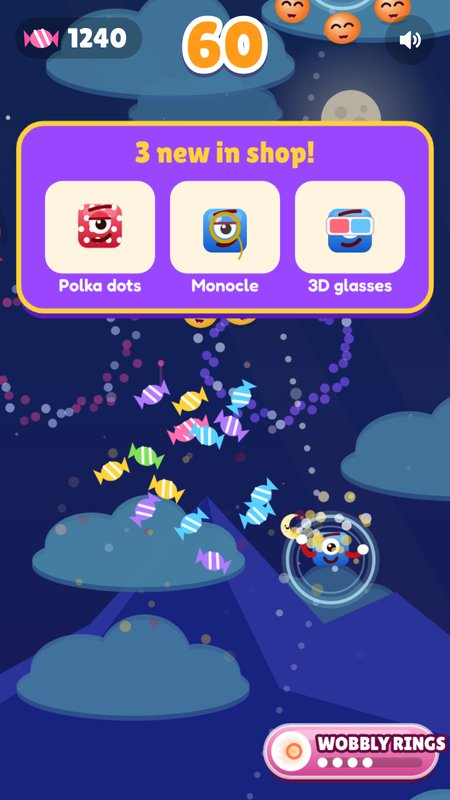
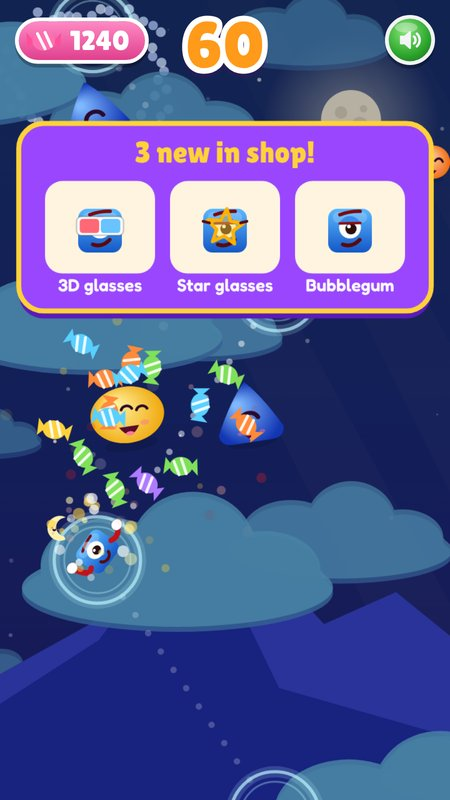
Botones del juego de caramelo y Erase en rojo

diff --git a/index.html b/index.html
@@ -31,7 +31,7 @@ body{height:100%;margin:0;background:var(--void);color:var(--ink);font-family:va
 #hud{position:absolute;top:10px;left:0;right:0;display:flex;justify-content:center;pointer-events:none}
 #score{font-family:var(--display);font-size:52px;line-height:1;color:#ff9a1a;--sw:9px;--ss:rgba(60,20,90,.45);font-variant-numeric:tabular-nums}
 #candy{position:absolute;top:14px;left:max(12px,env(safe-area-inset-left,0px));display:flex;align-items:center;gap:6px;
-  padding:4px 12px 4px 6px;border-radius:99px;background:rgba(0,0,0,.25);pointer-events:none;transition:transform .12s}
+  padding:3px 12px 3px 5px;border-radius:99px;background:linear-gradient(#ff8ac4,#e0408e);border:3px solid #fff;box-shadow:0 3px 0 rgba(0,0,0,.28);pointer-events:none;transition:transform .12s}
 #candy.bump{transform:scale(1.18)}
 /* the candy beats now and then, like a heart (as in the original game) */
 #candy svg{animation:candyBeat 5.5s ease-in-out infinite}
@@ -42,7 +42,7 @@ body{height:100%;margin:0;background:var(--void);color:var(--ink);font-family:va
 .chip.slow{background:#2a8fe0}.chip.endless{background:#7a4ae0}.chip.fast{background:#e8262c;animation:pulse .5s ease-in-out infinite}
 .chip{font:600 13px var(--body);padding:4px 10px;border-radius:99px;background:rgba(0,0,0,.28);color:#fff;letter-spacing:.04em}
 #mute{position:absolute;top:12px;right:max(12px,env(safe-area-inset-right,0px));width:40px;height:40px;border-radius:50%;
-  border:0;background:rgba(0,0,0,.22);color:#fff;font:600 18px var(--body);cursor:pointer;display:grid;place-items:center}
+  border:3px solid #fff;background:radial-gradient(circle at 40% 30%,#8ff07a,#2fae2c 60%,#1c6a1a);color:#fff;font:600 18px var(--body);cursor:pointer;display:grid;place-items:center}
 #mute:focus-visible,button:focus-visible{outline:3px solid #fff;outline-offset:3px}
 
 .overlay{position:absolute;inset:0;display:flex;flex-direction:column;align-items:center;justify-content:center;
@@ -220,9 +220,14 @@ body[data-ev="christmas"] #evBtn{background:rgba(255,255,255,.18)}
 #doors.closed .lock{scale:1;transition-delay:.3s}
 .lock svg{width:100%;height:100%;animation:spin 1.2s linear infinite;filter:drop-shadow(0 8px 14px rgba(120,20,0,.35))}
 #pauseBtn{position:absolute;top:12px;right:calc(max(12px,env(safe-area-inset-right,0px)) + 48px);width:40px;height:40px;border-radius:50%;
-  border:0;background:rgba(0,0,0,.22);cursor:pointer;display:grid;place-items:center}
+  border:3px solid #fff;background:radial-gradient(circle at 40% 30%,#7ab8ff,#3a6ae0 60%,#1a3a9a);cursor:pointer;display:grid;place-items:center}
 #gameBtns{position:absolute;top:58px;left:max(12px,env(safe-area-inset-left,0px));display:flex;flex-direction:column;gap:8px}
-#gameBtns button{position:relative;width:40px;height:40px;border-radius:50%;border:0;background:rgba(0,0,0,.25);cursor:pointer;display:grid;place-items:center}
+#gameBtns button{position:relative;width:40px;height:40px;border-radius:50%;border:3px solid #fff;cursor:pointer;display:grid;place-items:center}
+#tReset{background:linear-gradient(#ff7a6a,#e8263a);box-shadow:0 2px 0 #8c0c12}   /* erasing is the one red button */
+#gLooks{background:radial-gradient(circle at 40% 30%,#c79aff,#8a46e0 60%,#5a1ab8)}#gShop{background:radial-gradient(circle at 40% 30%,#ffc070,#f2760a 60%,#a84a00)}
+/* the in-game buttons are small candies too: a lip below, a shine on top, a touch see-through so the game shows */
+#mute,#pauseBtn,#gameBtns button{box-shadow:0 3px 0 rgba(0,0,0,.28);opacity:.95}
+#mute::after,#pauseBtn::after,#gameBtns button::after{content:"";position:absolute;left:16%;top:8%;width:52%;height:24%;border-radius:50%;background:rgba(255,255,255,.38);pointer-events:none}
 #album,#shop{background:rgba(20,10,40,.55);z-index:5}
 .btn-small.pink{background:radial-gradient(circle at 40% 30%,#ff9ad0,#e0408e 60%,#a01a5e)}
 .shopHead{display:flex;align-items:center;gap:12px}
